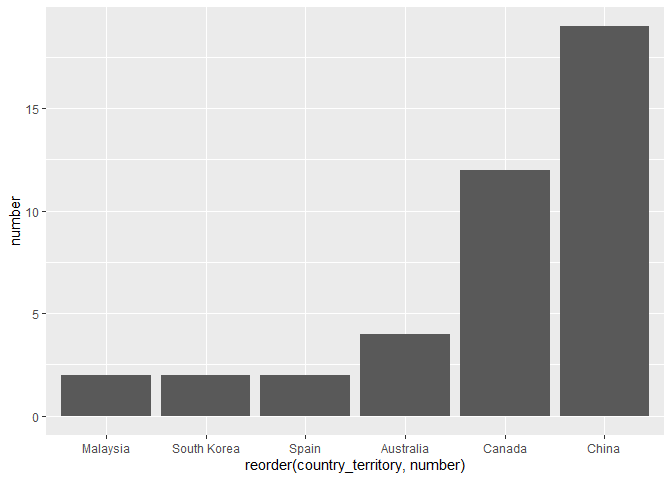
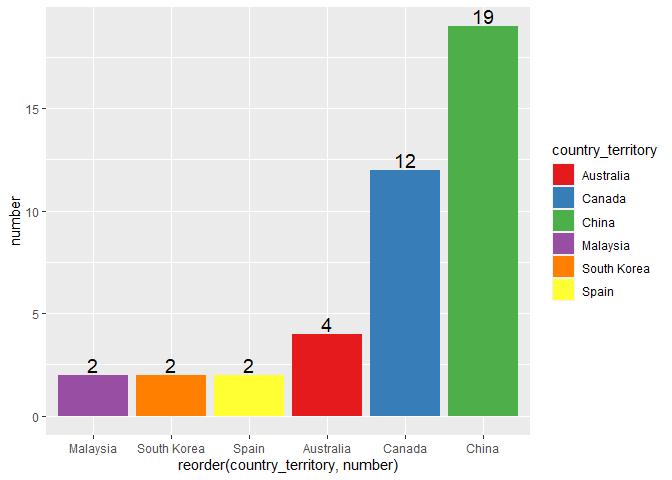
plot beautify

diff --git a/README.md b/README.md
@@ -127,7 +127,7 @@ df1 <- df %>%
 pretty_table(head(df),"sample 5")
 ```
 
-<div id="sihavvvmex" style="padding-left:0px;padding-right:0px;padding-top:10px;padding-bottom:10px;overflow-x:auto;overflow-y:auto;width:auto;height:auto;">
+<div id="vldrugprxm" style="padding-left:0px;padding-right:0px;padding-top:10px;padding-bottom:10px;overflow-x:auto;overflow-y:auto;width:auto;height:auto;">
   
   <table class="gt_table" style="font-family: -apple-system, BlinkMacSystemFont, 'Segoe UI', Roboto, Oxygen, Ubuntu, Cantarell, 'Helvetica Neue', 'Fira Sans', 'Droid Sans', Arial, sans-serif; display: table; border-collapse: collapse; margin-left: auto; margin-right: auto; color: #333333; font-size: 16px; font-weight: normal; font-style: normal; background-color: #FFFFFF; width: auto; border-top-style: solid; border-top-width: 2px; border-top-color: #FFFFFF; border-right-style: none; border-right-width: 2px; border-right-color: #D3D3D3; border-bottom-style: solid; border-bottom-width: 2px; border-bottom-color: #FFFFFF; border-left-style: none; border-left-width: 2px; border-left-color: #D3D3D3;" bgcolor="#FFFFFF">
   <thead class="gt_header">
@@ -214,7 +214,7 @@ So lets get list for each tier
   pretty_table(df=uec,title = "List of University in CAE with UEC tier")
   ```
 
-  <div id="lawfpxfulo" style="padding-left:0px;padding-right:0px;padding-top:10px;padding-bottom:10px;overflow-x:auto;overflow-y:auto;width:auto;height:auto;">
+  <div id="afkkuztsea" style="padding-left:0px;padding-right:0px;padding-top:10px;padding-bottom:10px;overflow-x:auto;overflow-y:auto;width:auto;height:auto;">
 
     <table class="gt_table" style="font-family: -apple-system, BlinkMacSystemFont, 'Segoe UI', Roboto, Oxygen, Ubuntu, Cantarell, 'Helvetica Neue', 'Fira Sans', 'Droid Sans', Arial, sans-serif; display: table; border-collapse: collapse; margin-left: auto; margin-right: auto; color: #333333; font-size: 16px; font-weight: normal; font-style: normal; background-color: #FFFFFF; width: auto; border-top-style: solid; border-top-width: 2px; border-top-color: #FFFFFF; border-right-style: none; border-right-width: 2px; border-right-color: #D3D3D3; border-bottom-style: solid; border-bottom-width: 2px; border-bottom-color: #FFFFFF; border-left-style: none; border-left-width: 2px; border-left-color: #D3D3D3;" bgcolor="#FFFFFF">
     <thead class="gt_header">
@@ -292,7 +292,7 @@ So lets get list for each tier
   pretty_table(df=cae,title = "List of University in CAE tier")
   ```
 
-  <div id="qmhaubzwso" style="padding-left:0px;padding-right:0px;padding-top:10px;padding-bottom:10px;overflow-x:auto;overflow-y:auto;width:auto;height:auto;">
+  <div id="idiroimytz" style="padding-left:0px;padding-right:0px;padding-top:10px;padding-bottom:10px;overflow-x:auto;overflow-y:auto;width:auto;height:auto;">
 
     <table class="gt_table" style="font-family: -apple-system, BlinkMacSystemFont, 'Segoe UI', Roboto, Oxygen, Ubuntu, Cantarell, 'Helvetica Neue', 'Fira Sans', 'Droid Sans', Arial, sans-serif; display: table; border-collapse: collapse; margin-left: auto; margin-right: auto; color: #333333; font-size: 16px; font-weight: normal; font-style: normal; background-color: #FFFFFF; width: auto; border-top-style: solid; border-top-width: 2px; border-top-color: #FFFFFF; border-right-style: none; border-right-width: 2px; border-right-color: #D3D3D3; border-bottom-style: solid; border-bottom-width: 2px; border-bottom-color: #FFFFFF; border-left-style: none; border-left-width: 2px; border-left-color: #D3D3D3;" bgcolor="#FFFFFF">
     <thead class="gt_header">
@@ -360,7 +360,7 @@ So lets get list for each tier
   pretty_table(df=ac,title = "List of University in AC tier")
   ```
 
-  <div id="lqhbbesgju" style="padding-left:0px;padding-right:0px;padding-top:10px;padding-bottom:10px;overflow-x:auto;overflow-y:auto;width:auto;height:auto;">
+  <div id="czoilmlrqm" style="padding-left:0px;padding-right:0px;padding-top:10px;padding-bottom:10px;overflow-x:auto;overflow-y:auto;width:auto;height:auto;">
 
     <table class="gt_table" style="font-family: -apple-system, BlinkMacSystemFont, 'Segoe UI', Roboto, Oxygen, Ubuntu, Cantarell, 'Helvetica Neue', 'Fira Sans', 'Droid Sans', Arial, sans-serif; display: table; border-collapse: collapse; margin-left: auto; margin-right: auto; color: #333333; font-size: 16px; font-weight: normal; font-style: normal; background-color: #FFFFFF; width: auto; border-top-style: solid; border-top-width: 2px; border-top-color: #FFFFFF; border-right-style: none; border-right-width: 2px; border-right-color: #D3D3D3; border-bottom-style: solid; border-bottom-width: 2px; border-bottom-color: #FFFFFF; border-left-style: none; border-left-width: 2px; border-left-color: #D3D3D3;" bgcolor="#FFFFFF">
     <thead class="gt_header">
@@ -488,7 +488,7 @@ So lets get list for each tier
   pretty_table(df=ic,title = "List of University in IC tier")
   ```
 
-  <div id="uejadhafxw" style="padding-left:0px;padding-right:0px;padding-top:10px;padding-bottom:10px;overflow-x:auto;overflow-y:auto;width:auto;height:auto;">
+  <div id="aeioommupb" style="padding-left:0px;padding-right:0px;padding-top:10px;padding-bottom:10px;overflow-x:auto;overflow-y:auto;width:auto;height:auto;">
 
     <table class="gt_table" style="font-family: -apple-system, BlinkMacSystemFont, 'Segoe UI', Roboto, Oxygen, Ubuntu, Cantarell, 'Helvetica Neue', 'Fira Sans', 'Droid Sans', Arial, sans-serif; display: table; border-collapse: collapse; margin-left: auto; margin-right: auto; color: #333333; font-size: 16px; font-weight: normal; font-style: normal; background-color: #FFFFFF; width: auto; border-top-style: solid; border-top-width: 2px; border-top-color: #FFFFFF; border-right-style: none; border-right-width: 2px; border-right-color: #D3D3D3; border-bottom-style: solid; border-bottom-width: 2px; border-bottom-color: #FFFFFF; border-left-style: none; border-left-width: 2px; border-left-color: #D3D3D3;" bgcolor="#FFFFFF">
     <thead class="gt_header">
@@ -619,8 +619,10 @@ df2 <- df %>%
   filter(number>1) %>%
   ungroup()
 
-plot1<- ggplot(data = df2,aes(x=reorder(country_territory,number),y=number))+
-  geom_col()
+plot1<- ggplot(data = df2,aes(x=reorder(country_territory,number),y=number,fill=country_territory))+
+  geom_col()+
+  scale_fill_brewer(palette = "Set1")+
+  geom_text(aes(label = number), vjust = -0.2, size = 5)
   
 plot1
 ```
